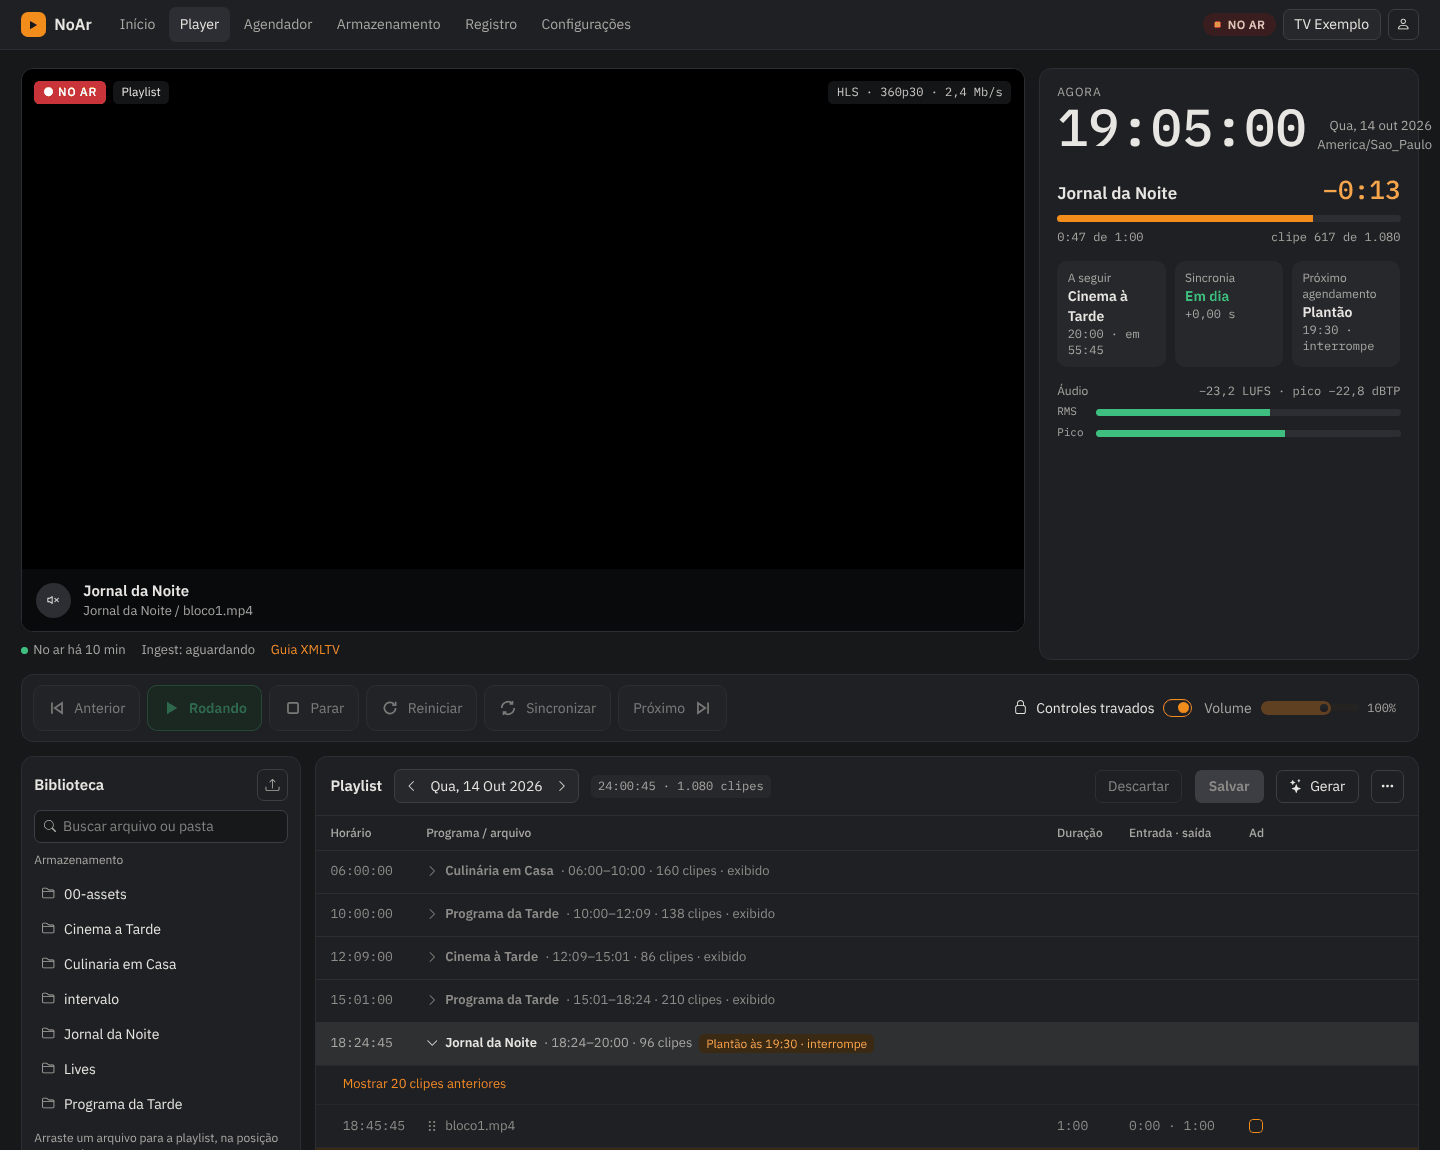
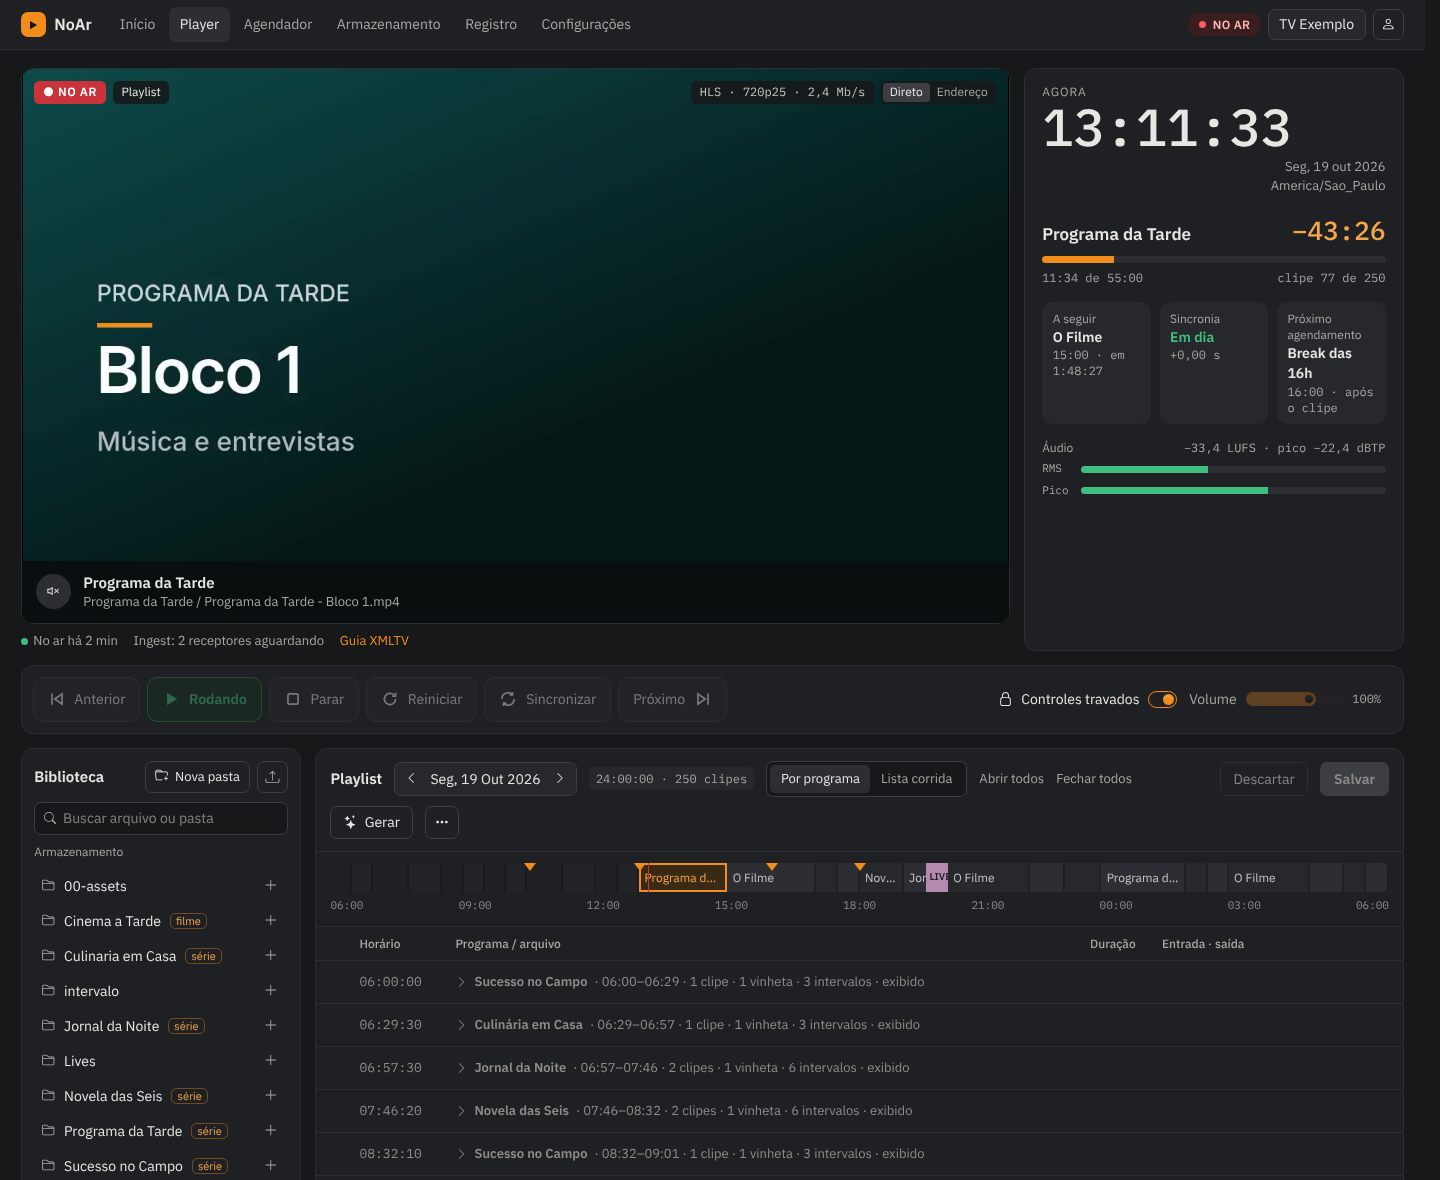
Update the README and its screenshots
The README now covers what NoAr added since it was written: Storage with
program sheets, series and background uploads, whole program folders in the
Player, the playlist generator drafts, the Log page and the restarts in
Settings. The Player and Settings screenshots are taken again from the
current screens, and the Scheduler, Storage and program folder dialog get
their own.

Claude-Session: https://claude.ai/code/session_015JvFK989jqQ4KNP9fZ5rka

diff --git a/README.md b/README.md
@@ -8,24 +8,55 @@ interruption, lets you schedule breaks and live shows over the running
 programme, and publishes an XMLTV guide with artwork for IPTV players.
 
 It is based on [ffplayout](https://github.com/ffplayout/ffplayout) by Jonathan
-Baecker and keeps its engine, web interface and API, adding:
+Baecker and keeps its engine and API, adding:
 
-- **XMLTV guide** built from the playlists and a Kodi-style `.nfo` file in each
-  program folder, with posters and episode images ([docs](docs/xmltv.md)).
+- **Player**: live preview straight from the output (about a second behind
+  the air, for HLS, RTMP or SRT), a clock with what is on air and what comes
+  next, transport controls, and the day's playlist grouped by program the way
+  the guide names it. Drag files from the library, or add a whole program
+  folder: its next episode, every video in order, or the ones you pick.
 - **Scheduler**: place a break, a clip or a live show (SRT, RTMP, HLS) at a
   time over whatever is on air, either waiting for the current clip to end or
   interrupting it and resuming at the exact point, without dropping the
   output ([docs](docs/scheduler.md)).
-- **New Player**: live preview straight from the output (about a second
-  behind the air, for HLS, RTMP or SRT), a clock with what is on air and what
-  comes next, transport controls, and the day's playlist grouped by program
-  the way the guide names it, with drag and drop from the library and clip
-  editing in place.
-- **New settings**: eleven pages in a side menu, with search, unsaved-change
-  markers and one save bar.
+- **Storage**: program folders with their guide sheet edited in the browser,
+  poster and wide image, series with one sheet for every episode, and uploads
+  that keep going in the background while you work on other pages.
+- **XMLTV guide** built from the playlists and a Kodi-style `.nfo` file in each
+  program folder, with posters and episode images ([docs](docs/xmltv.md)).
+- **Playlist generator**: fill a day from the folders you pick, or block by
+  block at set times, as a draft you review before saving
+  ([docs](docs/playlist_gen.md)).
+- **Log** that follows the channel live.
+- **Settings**: eleven pages in a side menu, with search, unsaved-change
+  markers, one save bar, and a restart of the playout or of the whole of NoAr.
 - **Docker-only install**: one command, then a setup page in the browser.
 
+The interface is in Brazilian Portuguese and English; the screenshots show the
+Portuguese one.
+
 ![Player](docs/images/player.png)
+
+## Screens
+
+**Scheduler**: a break that waits for the clip on air and a live show at
+19:30; the programme moves to make room for them.
+
+![Scheduler](docs/images/scheduler.png)
+
+**Storage**: a series folder with one sheet for every episode, its poster and
+how each video will show up in the guide.
+
+![Storage](docs/images/storage.png)
+
+**Adding a program to the playlist**: the next episode, the whole folder or
+the videos you pick.
+
+![Adding a program folder](docs/images/program-folder.png)
+
+**Settings**: live ingest receivers and the playout restart.
+
+![Settings](docs/images/settings.png)
 
 ## Install with Docker
 
@@ -72,10 +103,8 @@ Inherited from ffplayout:
 - RTMP and SRT live ingest that takes over without dropping the output
 - logo overlay, WebVTT subtitles, loudness normalization, recording
 - import playlists from text or m3u files
-- web interface and REST API, multiple channels
+- REST API, multiple channels
 - mail and HTTP push notifications for log alerts
-
-![Settings](docs/images/settings.png)
 
 Each feature has a page in [docs](docs/README.md); for the install you only
 need this README and [docs/docker.md](docs/docker.md).
